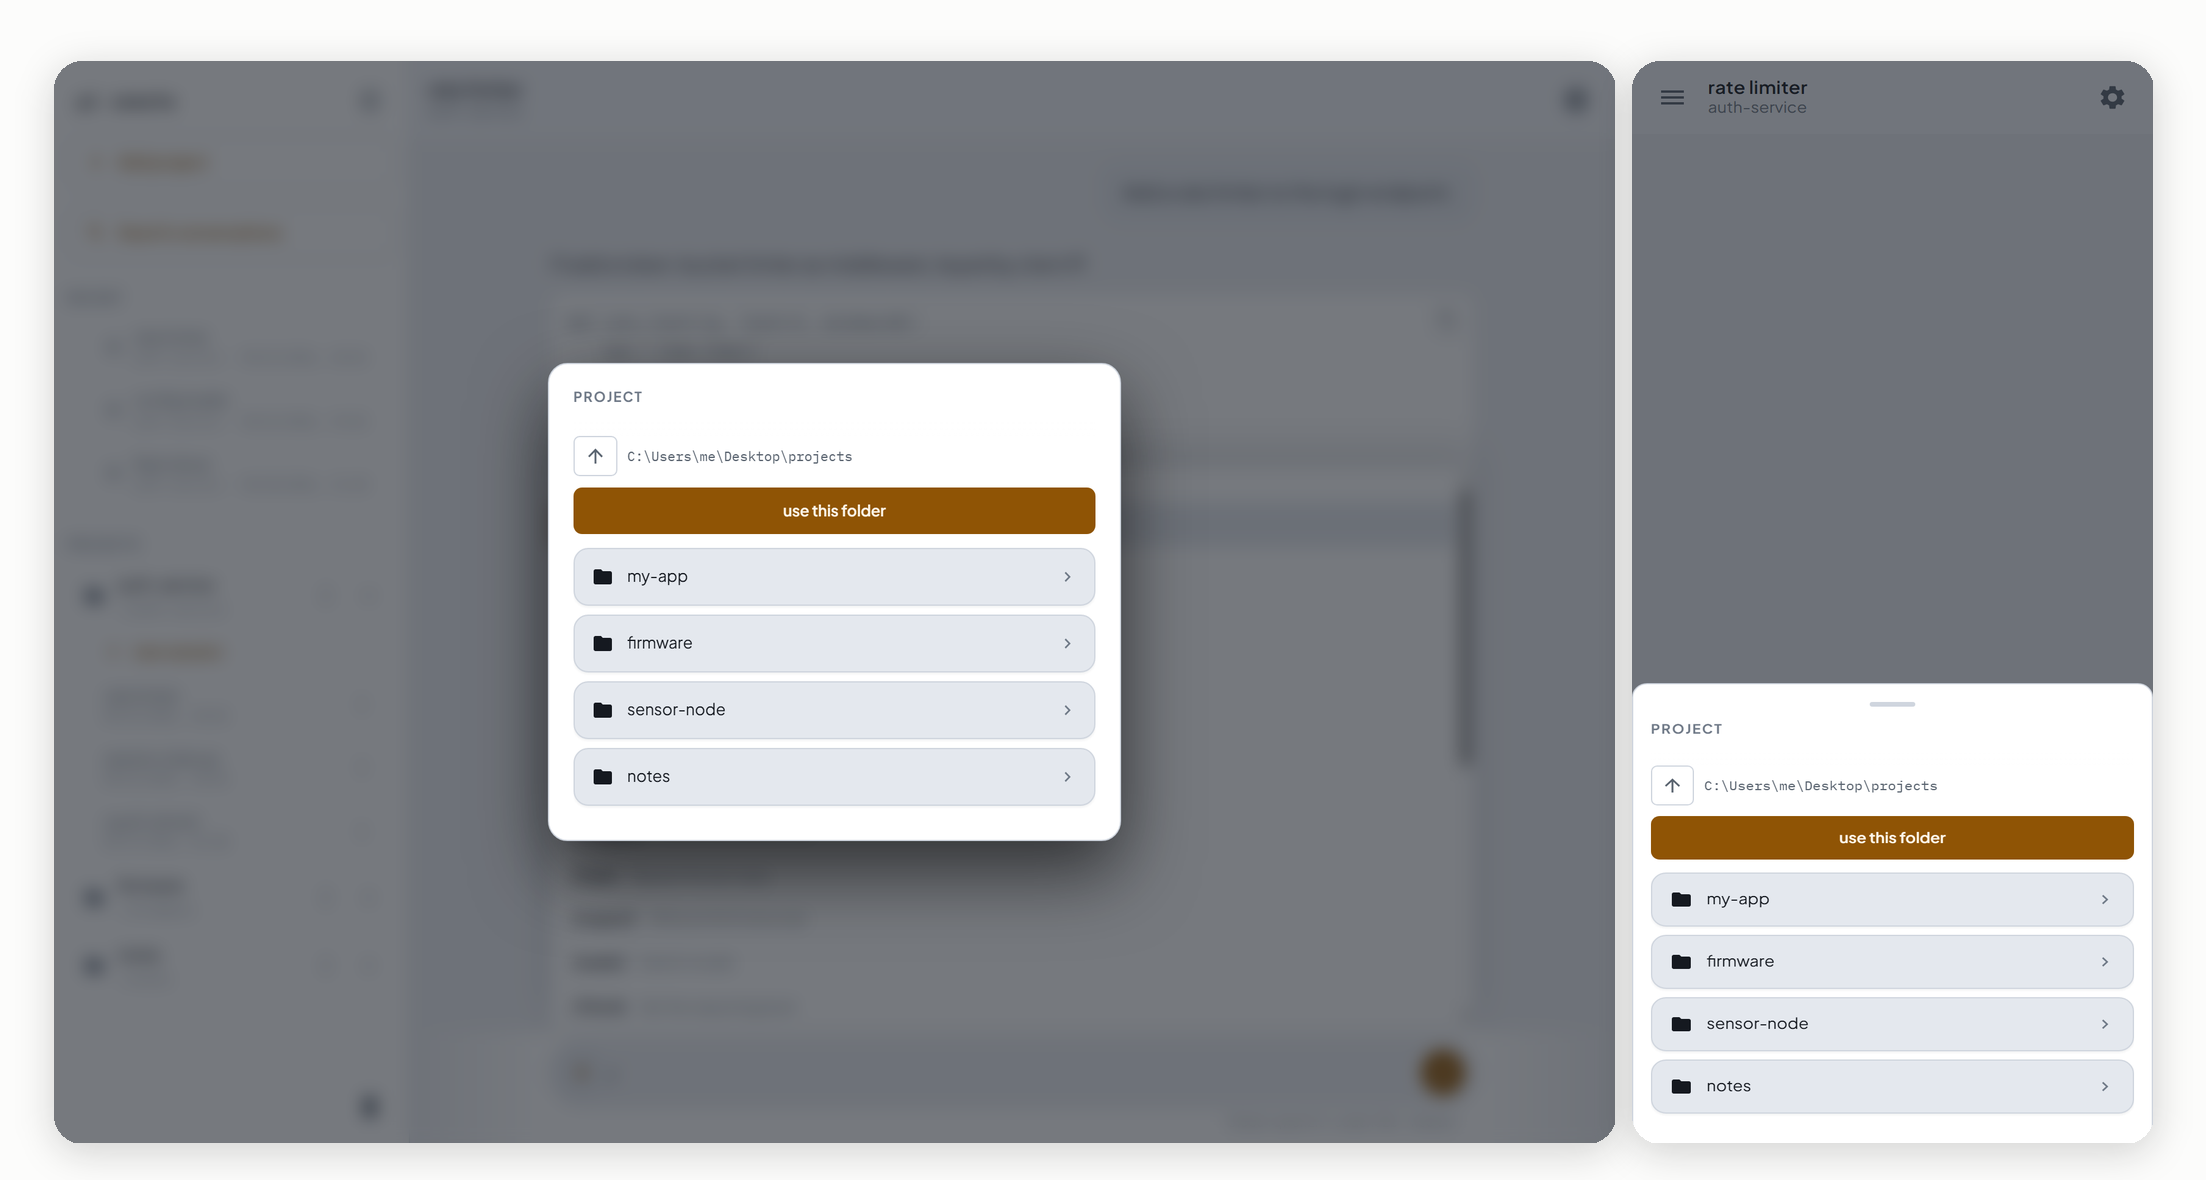
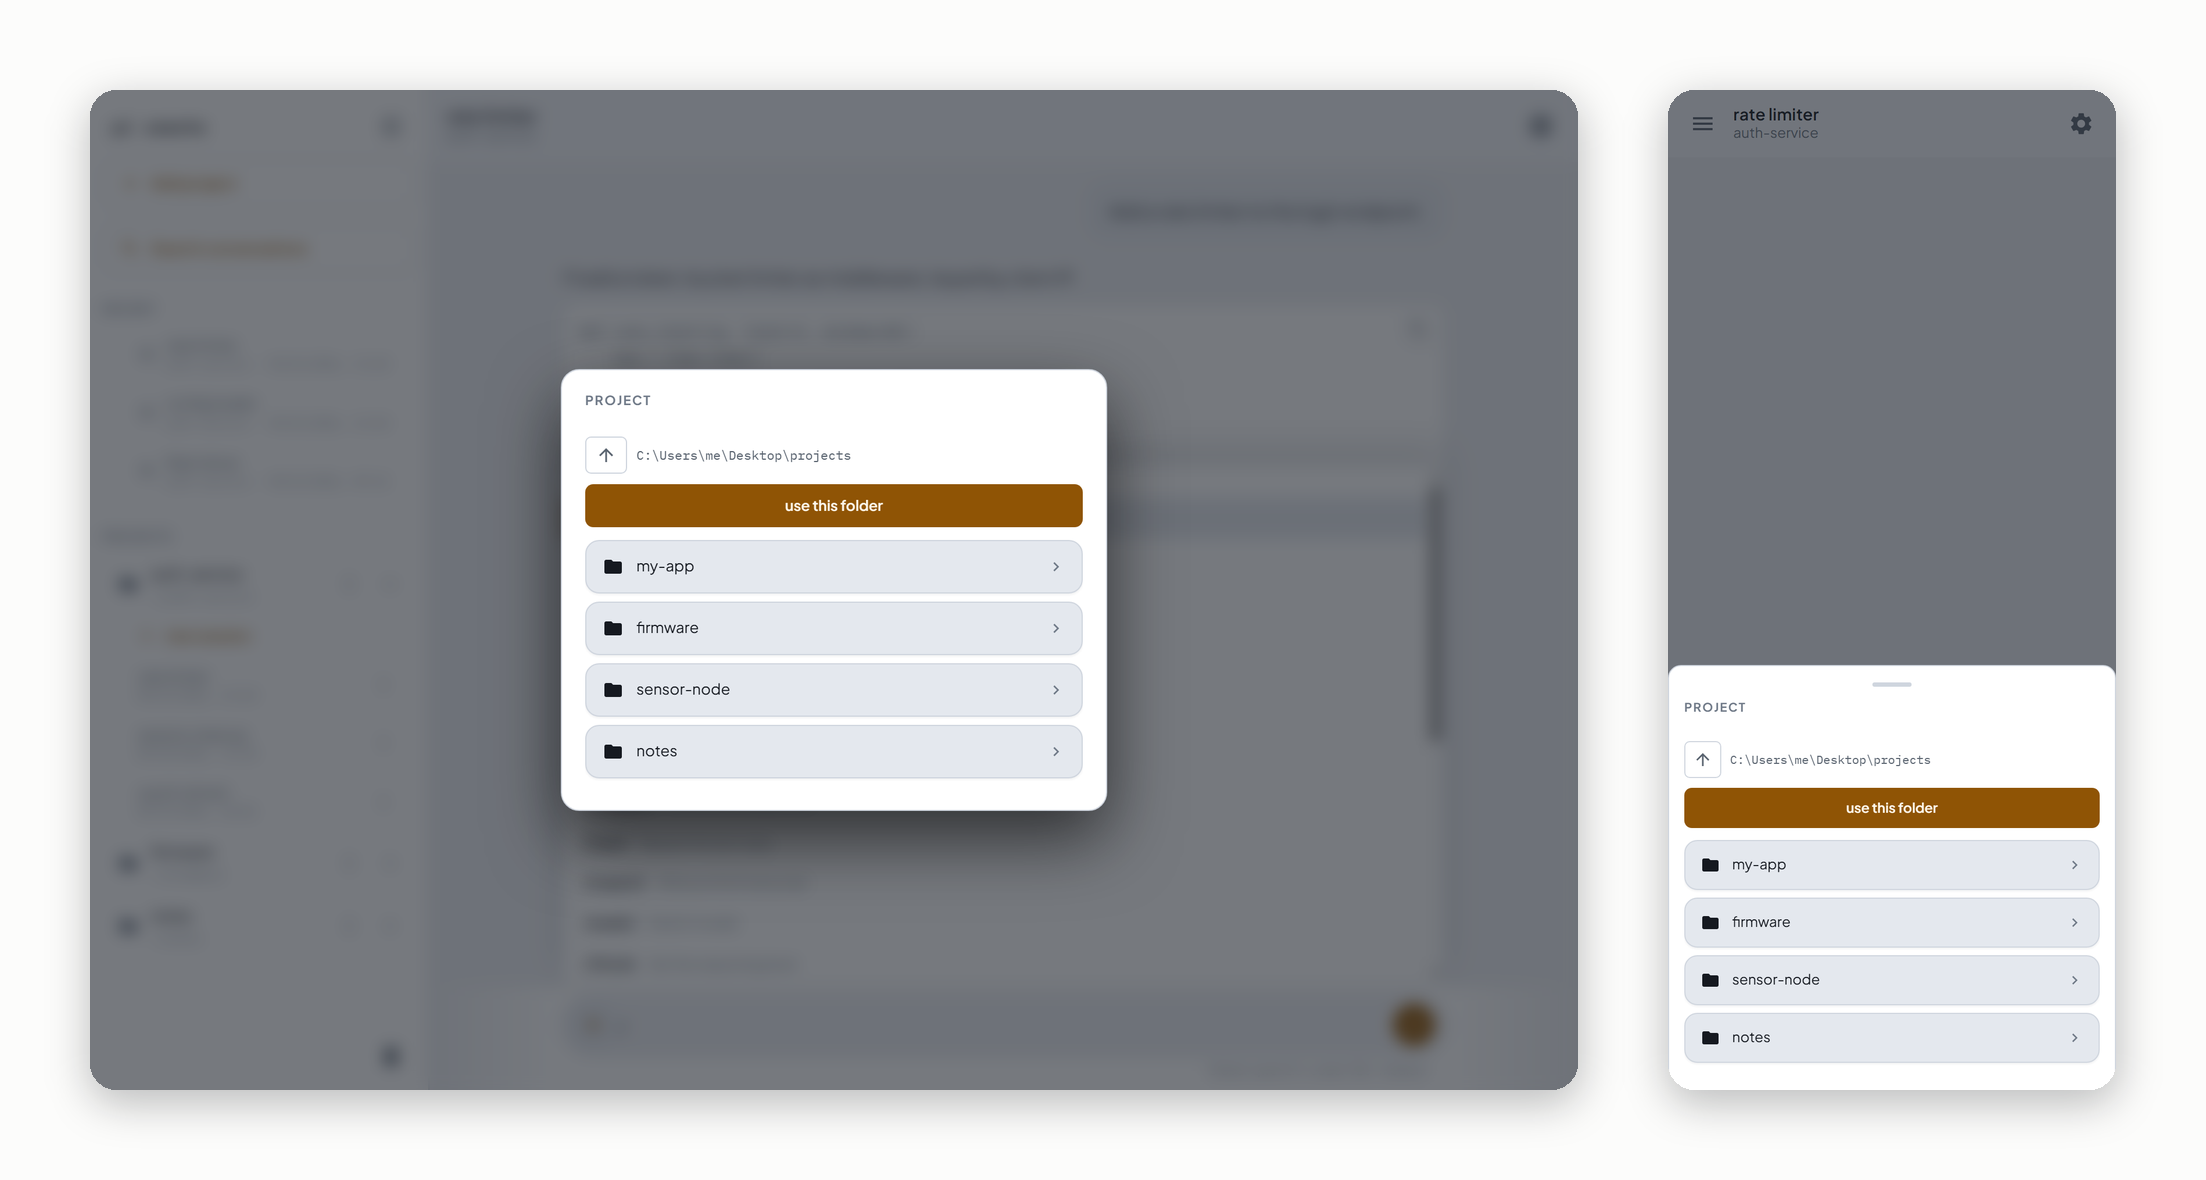
docs: refresh screenshots and add the package store image
Regenerate every README image against the current interface; the old ones
predated the recent layout changes and showed temporary test paths as
project locations. Add a picture of the pi.dev packages page, describe the
three generation animation modes that replaced the old smooth toggle, and
credit Source Serif 4 among the bundled fonts.

Changed region(s): [[0.0, 0.0305, 0.9864, 0.9763], [0.2466, 0.3051, 0.524, 0.7627]]

diff --git a/README.md b/README.md
@@ -445,6 +445,12 @@ of optional switches, each remembered per browser.
   runs code on this machine, and changes apply on the next restart. The
   catalog has no JSON API, so the bridge reads the pages and caches them
   for ten minutes.
+
+<p align="center">
+  <img src="docs/store.png" width="300"
+       alt="The pi.dev packages page: a search box, type filters, a sort button, and packages with their author, monthly downloads and an installed check">
+</p>
+
 - **Context** (next to Model): pi's compaction settings — auto compact, the
   reserve for the response, and how much recent context is kept verbatim.
   Both numbers are sliders bounded by the active model, because pi derives
@@ -475,12 +481,13 @@ of optional switches, each remembered per browser.
   - **Notifications**: a local notification, with the last reply as its body,
     when a turn ends while the tab is hidden. The browser's own; no third
     parties.
-  - **Smooth generation**: streamed text fades in left to right; turned off,
-    it lands all at once.
+  - **Generation animation**: how streamed text appears. *Default* shows it
+    as it arrives, *smooth* fades it in left to right, and *block* keeps each
+    paragraph hidden until it is complete, then fades it in whole.
 
 <p align="center">
   <img src="docs/functions.png" width="300"
-       alt="The Functions page: six switches for show reasoning, response suggestions, summary on agent stop, notifications, smooth generation, and auto-naming sessions">
+       alt="The Functions page: switches for show reasoning, response suggestions, summary on agent stop, notifications and auto-naming sessions, plus the generation animation picker">
 </p>
 
 ## Security
@@ -546,5 +553,5 @@ automatically; point `CHROME` at it otherwise.
 MIT. See [LICENSE](LICENSE).
 
 Third-party components: FastAPI (MIT), Uvicorn and Starlette (BSD-3-Clause),
-Material Icons (Apache-2.0), IBM Plex Mono, Plus Jakarta Sans and Inter
-(OFL-1.1).
+Material Icons (Apache-2.0), IBM Plex Mono, Plus Jakarta Sans, Inter and
+Source Serif 4 (OFL-1.1).
